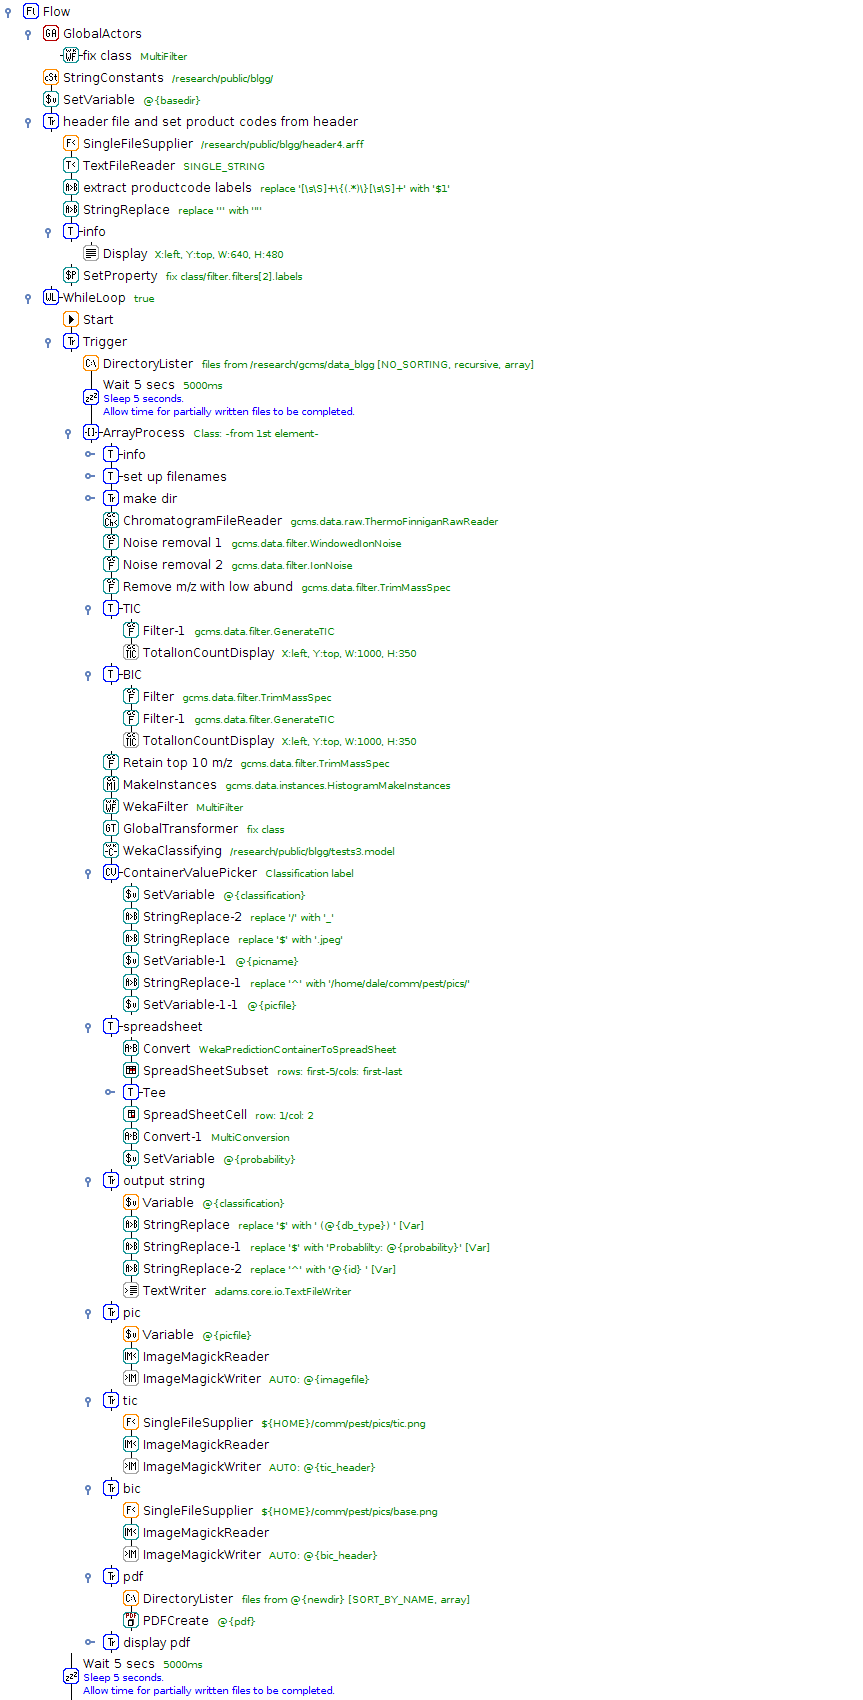
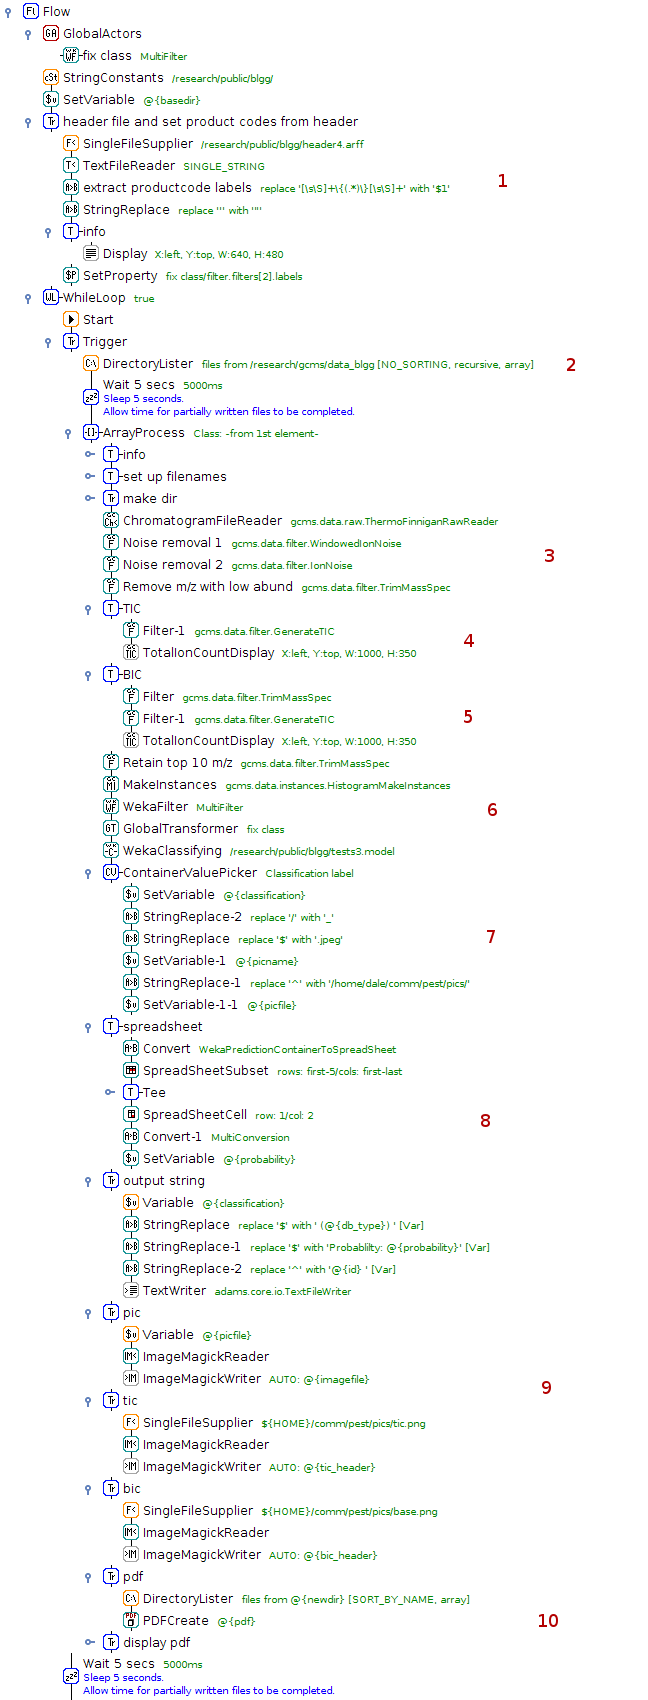
updated sample type checker example

diff --git a/examples.html b/examples.html
@@ -321,7 +321,7 @@
             </div>
             <div class="row">
                 <div class="span3">
-                    <p>Using the GC-MS extension modules, this flow performs a check on the sample type of GC-MS spectra and sends the analyst an email with the results. The spectra themselves are obtained from fruit and vegetable samples.</p>
+                    <p>Using the GC-MS extension modules, this flow performs a check on the sample type of GC-MS spectra and can send the analyst an email with the results. The spectra themselves are obtained from fruit and vegetable samples.</p>
                     <span class="label">Classification</span>
                     <span class="label">GC-MS</span>
                     <span class="label">Email</span>
@@ -342,21 +342,16 @@
                                         <div class="span7"><img src="img/sampletypechecker.png" alt="Sample type checker"/></div>
                                         <div class="span3">
                                             <table class="table table-condensed">
-                                                <tr><td><span class="badge">1</span></td><td> </td></tr>
-                                                <tr><td><span class="badge">2</span></td><td> </td></tr>
-                                                <tr><td><span class="badge">3</span></td><td> </td></tr>
-                                                <tr><td><span class="badge">4</span></td><td> </td></tr>
-                                                <tr><td><span class="badge">5</span></td><td> </td></tr>
-                                                <tr><td><span class="badge">6</span></td><td> </td></tr>
-                                                <tr><td><span class="badge">7</span></td><td> </td></tr>
-                                                <tr><td><span class="badge">8</span></td><td> </td></tr>
-                                                <tr><td><span class="badge">9</span></td><td> </td></tr>
-                                                <tr><td><span class="badge">10</span></td><td> </td></tr>
-                                                <tr><td><span class="badge">11</span></td><td> </td></tr>
-                                                <tr><td><span class="badge">12</span></td><td> </td></tr>
-                                                <tr><td><span class="badge">13</span></td><td> </td></tr>
-                                                <tr><td><span class="badge">14</span></td><td> </td></tr>
-                                                <tr><td><span class="badge">15</span></td><td> </td></tr>
+                                                <tr><td><span class="badge">1</span></td><td> Retrieve classification available classification labels</td></tr>
+                                                <tr><td><span class="badge">2</span></td><td> List all chromatogram files</td></tr>
+                                                <tr><td><span class="badge">3</span></td><td> Load and pre-process chromatograms one-by-one</td></tr>
+                                                <tr><td><span class="badge">4</span></td><td> Show Total-ion-count and take a screenshot for report</td></tr>
+                                                <tr><td><span class="badge">5</span></td><td> The same with the Baseline-ion-count</td></tr>
+                                                <tr><td><span class="badge">6</span></td><td> Turn chromatogram into WEKA instance and predict the class label</td></tr>
+                                                <tr><td><span class="badge">7</span></td><td> Determine the fruit/vegetable picture associated with the label</td></tr>
+                                                <tr><td><span class="badge">8</span></td><td> Create a spreadsheet from the class distribution (top 5)</td></tr>
+                                                <tr><td><span class="badge">9</span></td><td> Generate various output for the PDF report</td></tr>
+                                                <tr><td><span class="badge">10</span></td><td> Generate PDF report</td></tr>
                                             </table>
                                         </div>
                                     </div>
